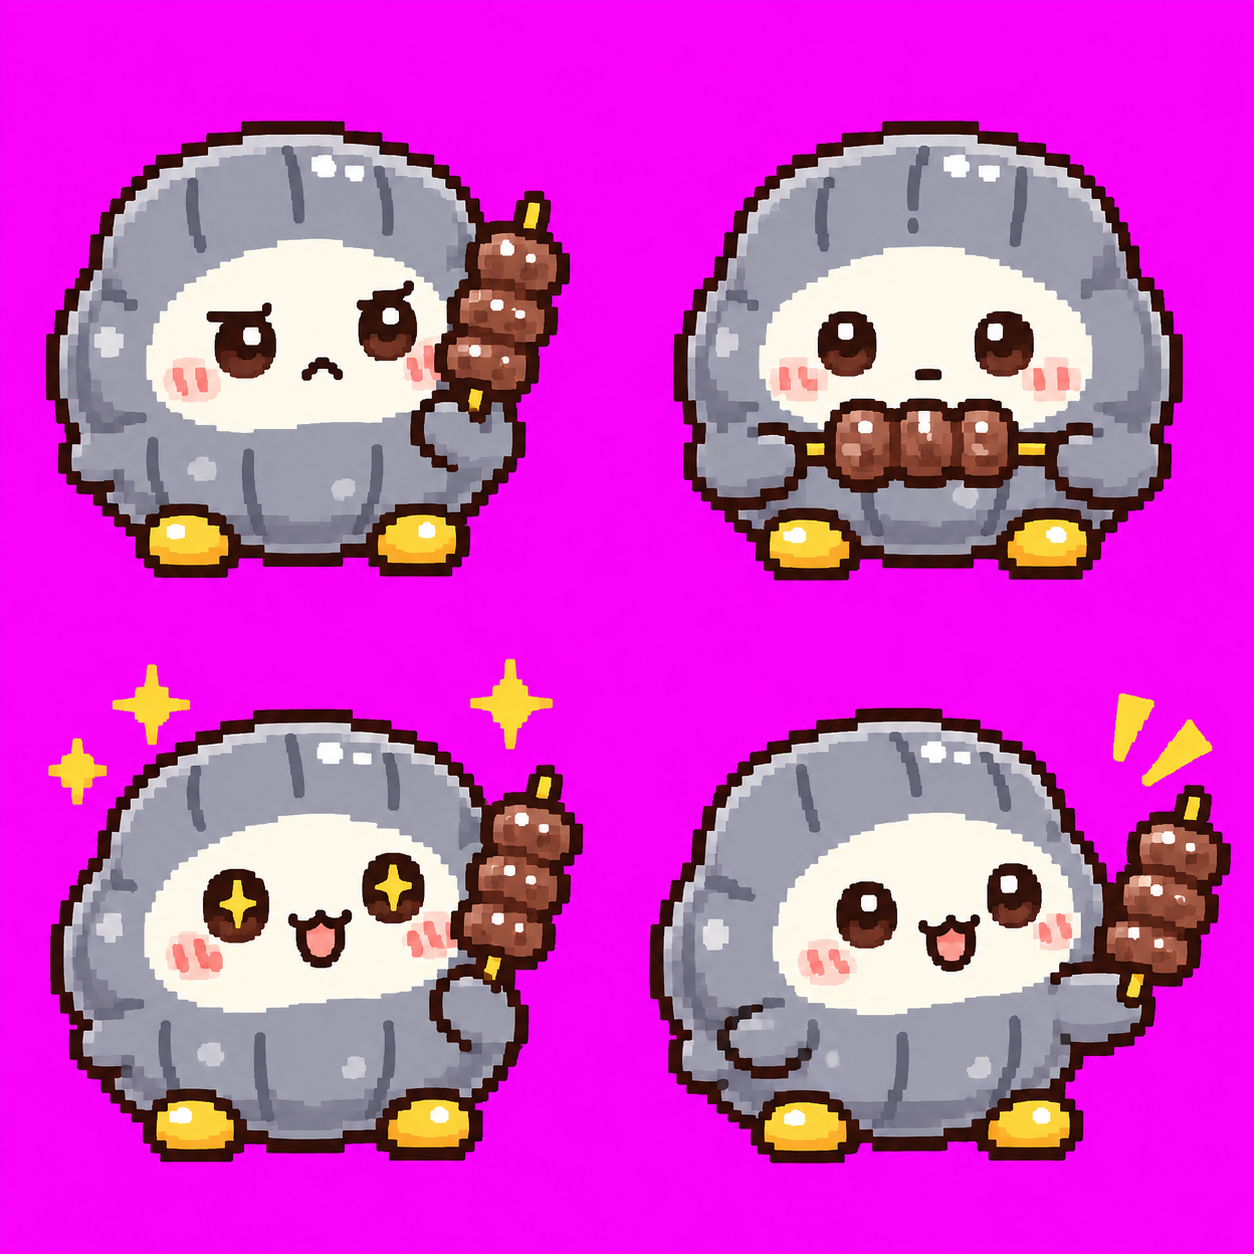
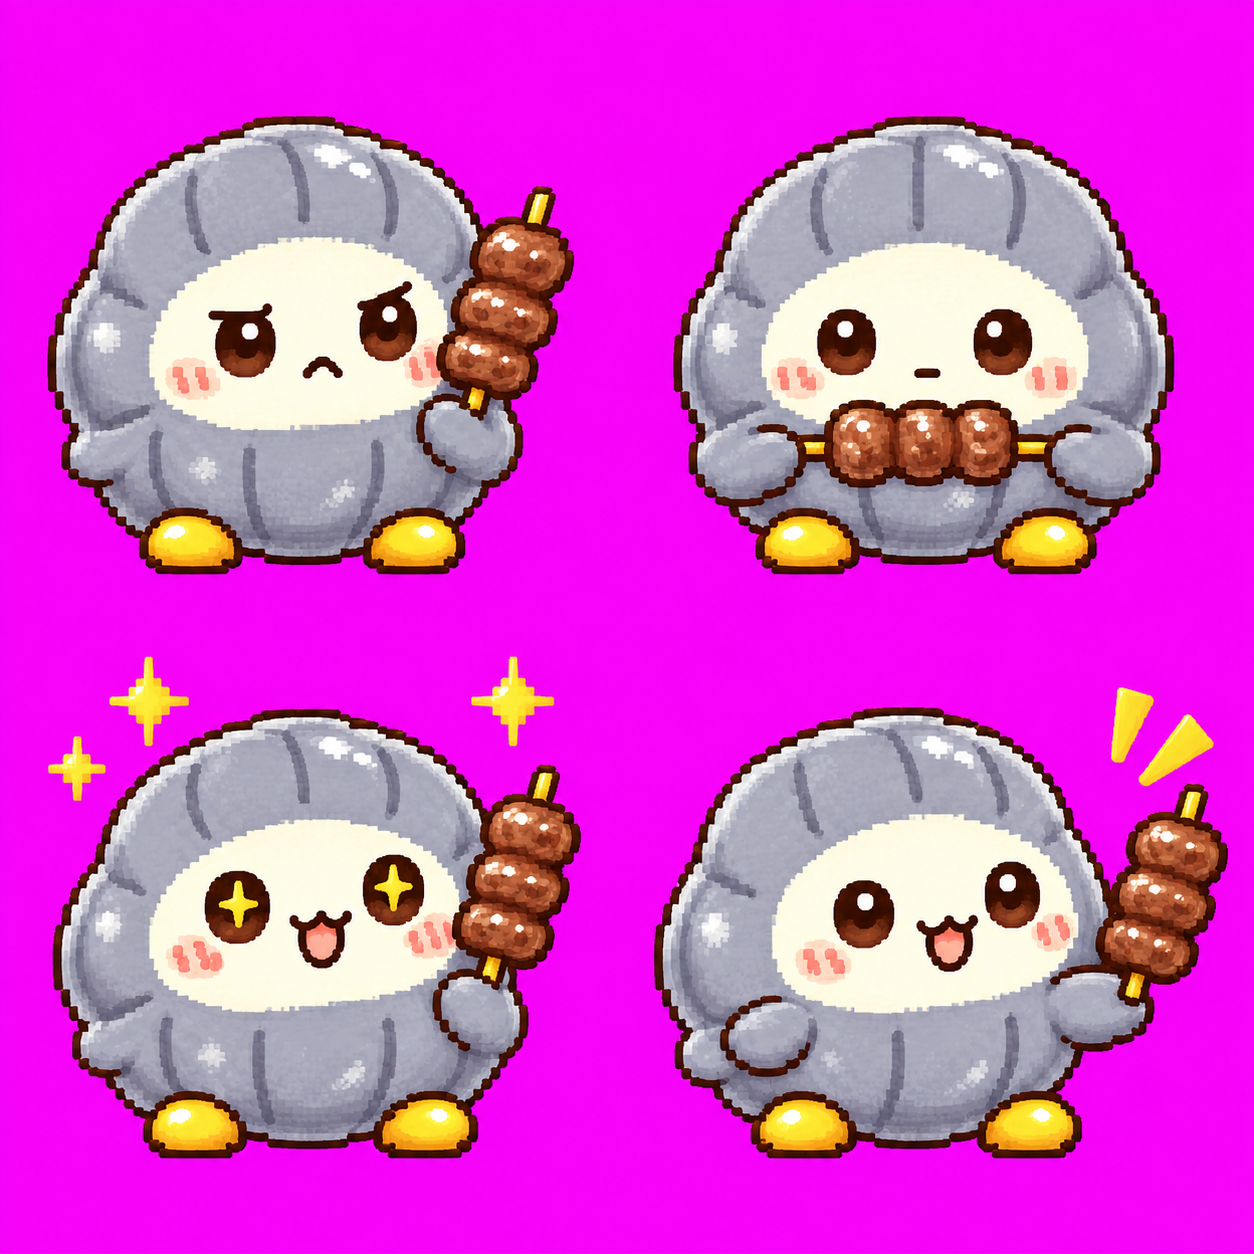
fix: sunagimoとマサハル図鑑の画質を改善

diff --git a/docs/sunagimo-imagegen.md b/docs/sunagimo-imagegen.md
@@ -6,17 +6,42 @@
 - 参照: [sunagimo](https://minerva.mamansoft.net/Notes/sunagimo)
 - 原画: `assets-src/sunagimo-grill-pixel.webp`
 - 部屋用: `public/assets/sunagimo-grill-pixel.webp`、192×192、2列×2行、1コマ論理48×48
-- 図鑑用: `public/assets/collection/sunagimo-grill.webp`、512×512
+- 図鑑用: `public/assets/collection/sunagimo-grill.webp`、1024×1024
 
-透明背景を依頼した初回出力は、アルファのない市松模様だった。組み込みツールで背景だけをマゼンタへ変更した原画を保存し、部屋の生成時にGPUで背景を透過へ一度焼き込む。キャラクターの白い顔や灰紫色は保持する。4コマはこのテクスチャを共有し、部屋を閉じると破棄する。
+透明背景を依頼した初回出力は、アルファのない市松模様だった。原画にはマゼンタ背景を使う。現在は素材変換時に背景を透過してからLanczosで縮小し、白い顔や灰紫色を保持したアルファ付きWebPを保存する。
 
 ## エトキチのリアクションへの差し替え
 
-### 画質の確認
+### 画質の確認と改善
 
 2026-09-11に部屋表示と図鑑の拡大表示を確認した。部屋用は大きな原画をnearestで縮小しており、とくにエトキチの星の輪郭にギザつきがある。細かなマサハルの寝姿と比べると粗さが残る。
 
-図鑑は512×512で、検証時の拡大表示はスマホ360px、PC506px。顔・串・鍋の細部は判別でき、解像度不足による破綻は目立たない。一方、キャラクターの太い線と平坦な陰影は細かな背景より粗い画風に見える。統一感を改善する場合は部屋用を優先する。今回の依頼は品質確認のため、画像の再生成・差し替えは行っていない。
+旧図鑑は512×512で、スマホ360px・PC506px表示では細部を判別できたが、キャラクターの太い線と平坦な陰影に画風差があった。タダシの改善指示を受け、部屋用の2素材と図鑑を組み込みimagegenで再制作した。細い茶色の輪郭と細かな陰影へ揃え、部屋用は縮小前に透過してLanczos縮小、図鑑は1024×1024で保存する。ポーズ・コマ割り・串の3片・エトキチの腰の輪っかを保持した。
+### 部屋用エトキチの画質改善プロンプト
+
+参照: `assets-src/etokichi-watching-sunagimo-pixel.webp`、`public/assets/etokichi-sleep-leaning-pixel.webp`
+
+```text
+Edit image 1 sprite sheet. Preserve all THREE cells and poses, exact placement, scale, baseline, yellow five-point star identity, hands, feet, pink cheeks, and GOLDEN WAIST ORBIT RING in every frame. Refine rendering to the fine detailed small-pixel shading and thin warm brown contour of reference 2. Eliminate chunky black outlines and large flat pixel blocks; delicate gold shading with restrained fine pixel texture. Retain leftward gaze and empty hands, curious / delighted / closed eyes applauding reactions in same order. Canvas 3:1 horizontal, exactly three equal cells, no clipping. Keep pure flat #ff00ff background, no checkerboard, no text or other characters.
+```
+
+
+### 部屋用sunagimoの画質改善プロンプト
+
+参照: `assets-src/sunagimo-grill-pixel.webp`、`public/assets/masaharu-sleep-pixel.webp`
+
+```text
+Edit image 1 sprite sheet. Preserve exact sunagimo identity, round gray lavender grooved body, ivory face, brown eyes, blush cheeks, yellow feet and skewer with THREE meat pieces. Preserve all FOUR poses, same positions, baseline and size in 2x2 equal cells. Reference 2 is only fine pixel density and thin warm brown outline guidance; do not add the dog. Refine chunky outlines to thin nuanced contours, subtle small-pixel shading, finely shaded meat and body, no large flat pixel blocks. Keep all expressions and gestures and symbols as source. 1:1 square canvas, pure uniform #ff00ff background, no checkerboard or grid lines.
+```
+
+
+### 図鑑の画質改善プロンプト
+
+参照: `public/assets/collection/sunagimo-grill.webp`、`public/assets/collection/window-nap.webp`
+
+```text
+Refine image 1 collectible illustration into finely detailed pixel art at 1024x1024. Reference 2 shows desired small pixel grain and detailed room rendering. Preserve exact scene composition, characters, evening kitchen, stove, pot, furniture and lighting. Sunagimo gray lavender grooved round body and ivory face proudly shows a skewer with exactly THREE pieces, yellow star Etokichi looking toward friend applauding with EMPTY hands and complete GOLDEN WAIST ORBIT RING. Thin nuanced dark brown outlines matching background, fine small-pixel shading on characters and furnishings, eliminate large stair-step blocks and thick black character outlines. Match character rendering detail to the room. No text, no added characters or utensils. Do not just upscale chunky source; reconstruct finer details.
+```
 
 ### リアクション
 

diff --git a/docs/masaharu-imagegen.md b/docs/masaharu-imagegen.md
@@ -6,7 +6,7 @@
 - エトキチ原画: `assets-src/etokichi-sleep-leaning-pixel.webp`
 - 部屋用マサハル: `public/assets/masaharu-sleep-pixel.webp`、144×112、論理72×56
 - 部屋用エトキチ: `public/assets/etokichi-sleep-leaning-pixel.webp`、86×84、論理43×42
-- 図鑑: `public/assets/collection/masaharu-sunbeam.webp`、512×512
+- 図鑑: `public/assets/collection/masaharu-sunbeam.webp`、1024×1024
 
 原画からの機械変換は `pnpm assets:normalize` を使う。背景を透過してから余白を除き、Lanczosで縮小する。部屋用WebPはアルファ付きで、そのまま他シーンへ流用できる。描画時はnearestでゲーム全体のドットを揃える。
 
@@ -39,6 +39,19 @@ Use case: stylized-concept. Create ONE stationary game sprite showing BOTH frien
 ```
 
 ## 図鑑イラストのプロンプト
+
+### 画質の改善
+
+初版は他の図鑑と同じ512×512だったが、元絵のドットと輪郭が大きく、毛並みと顔が粗く見えていた。窓辺の昼寝を粒度の基準にし、承認済みの単体寝姿を外見の基準にして組み込みimagegenで再制作した。細かな毛並み・輪郭・陰影を描き直し、図鑑は1024×1024で保存する。エトキチの口も閉じ、二人の静かな寝顔と腰の輪っかを保持する。
+### 図鑑の画質改善プロンプト
+
+参照: `public/assets/collection/masaharu-sunbeam.webp`、`public/assets/collection/window-nap.webp`、`assets-src/masaharu-sleep-pixel.webp`、`assets-src/etokichi-sleep-leaning-pixel.webp`
+
+```text
+Refine image 1 collectible illustration at 1024x1024. Reference 2 defines fine small-pixel grain and detailed cozy room rendering. References 3 and 4 define approved character appearances and closed sleeping expressions. Preserve image 1 warm midday room composition, green curtains, window light on wooden floor, bookshelf, dog LEFT and star RIGHT cuddled close. Draw BOTH peacefully sleeping with CLOSED eyes and small CLOSED relaxed smiles, no laughing open mouth. Masaharu tan and cream white dog with RED collar and curled fluffy tail, tiny detailed fur shading. Etokichi yellow FIVE POINT STAR, pink cheeks, little hands and feet, complete GOLDEN WAIST ORBIT RING. Refine coarse blocks and heavy outlines into small fine pixels, delicate fur, thin warm brown contours, subtle shading matching background detail. Full bodies, pillow retained. No text, no Z symbols, no added characters. Reconstruct fine details, not a simple enlargement of chunky source.
+```
+
+### 初版
 
 ```text
 Use case: illustration-story. Square collectible pixel art illustration for cozy room game, no text. Image 1 references ONLY LEFT dog Masaru: tan white Akita-like plush dog, white face muzzle chest paws, triangular ears, curled fluffy tail, RED collar. Do not include owl. Image 2 defines exact Etokichi yellow FIVE POINT STAR character, orange pink cheeks, tiny yellow limbs and thin golden oval SATURN WAIST RING extending outside both sides of torso; must visibly preserve waist ring. Image 3 room mood reference only; replace its book-reading action with requested moment. Scene: warm midday sun streams from a wooden window into a cozy wooden-floor room. Masaru is lying belly down on LEFT, closed gentle eyes, forepaws extended. Etokichi sits RIGHT closely beside Masaru, leaning slightly against fluffy shoulder, closed sleepy smiling eyes. They share one broad patch of sunshine, feeling safe and peaceful. Both full bodies readable, roughly equal importance, characters central foreground. Soft green cushion under Etokichi optional, no book, no toy, no food, no other characters, no speech bubbles, no Z symbols. Crisp coherent chunky pixel art with dark outlines and restrained warm shading. Warm green curtains, bookshelf in background, enough breathing space. Ring around waist, NOT halo.
